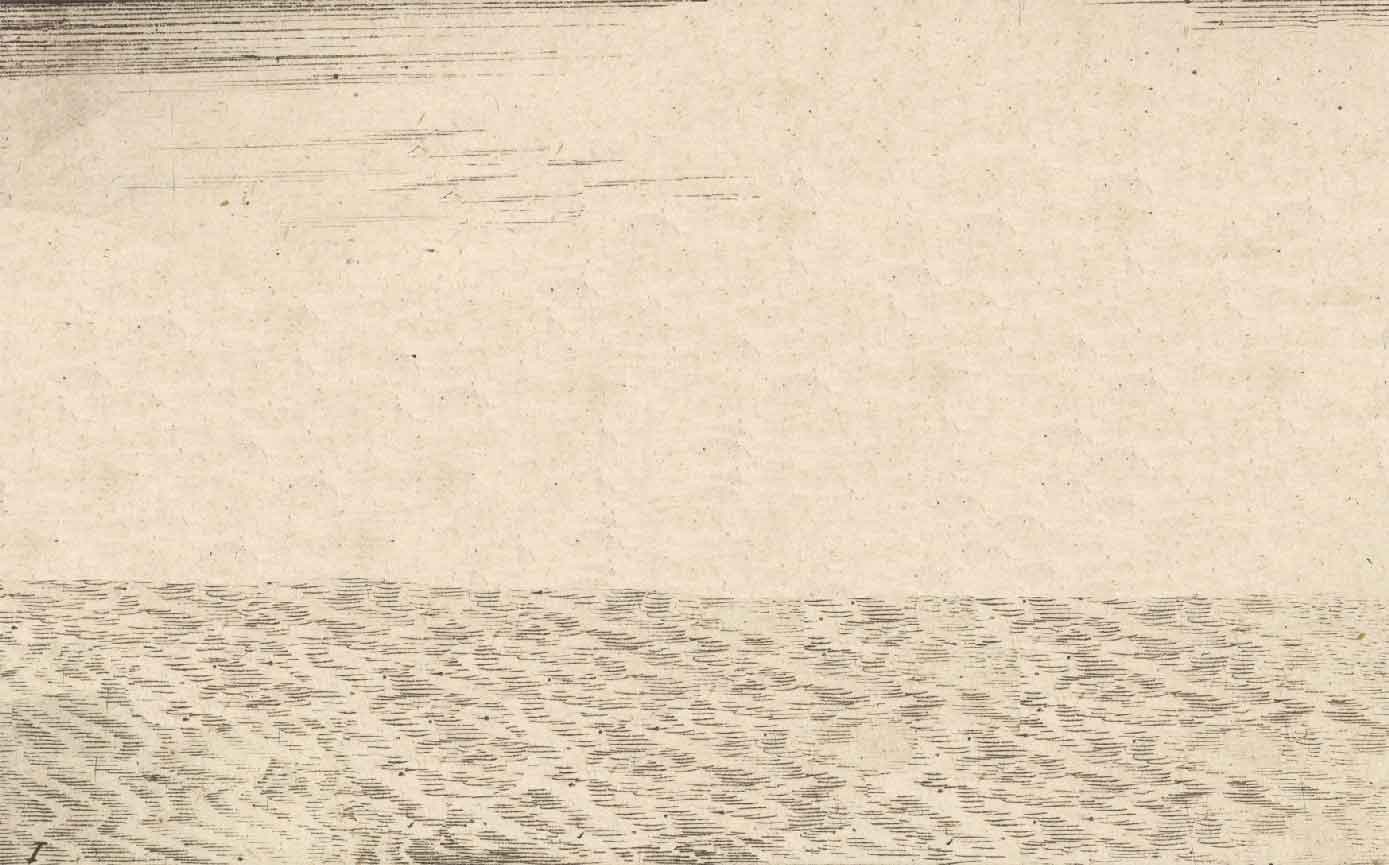
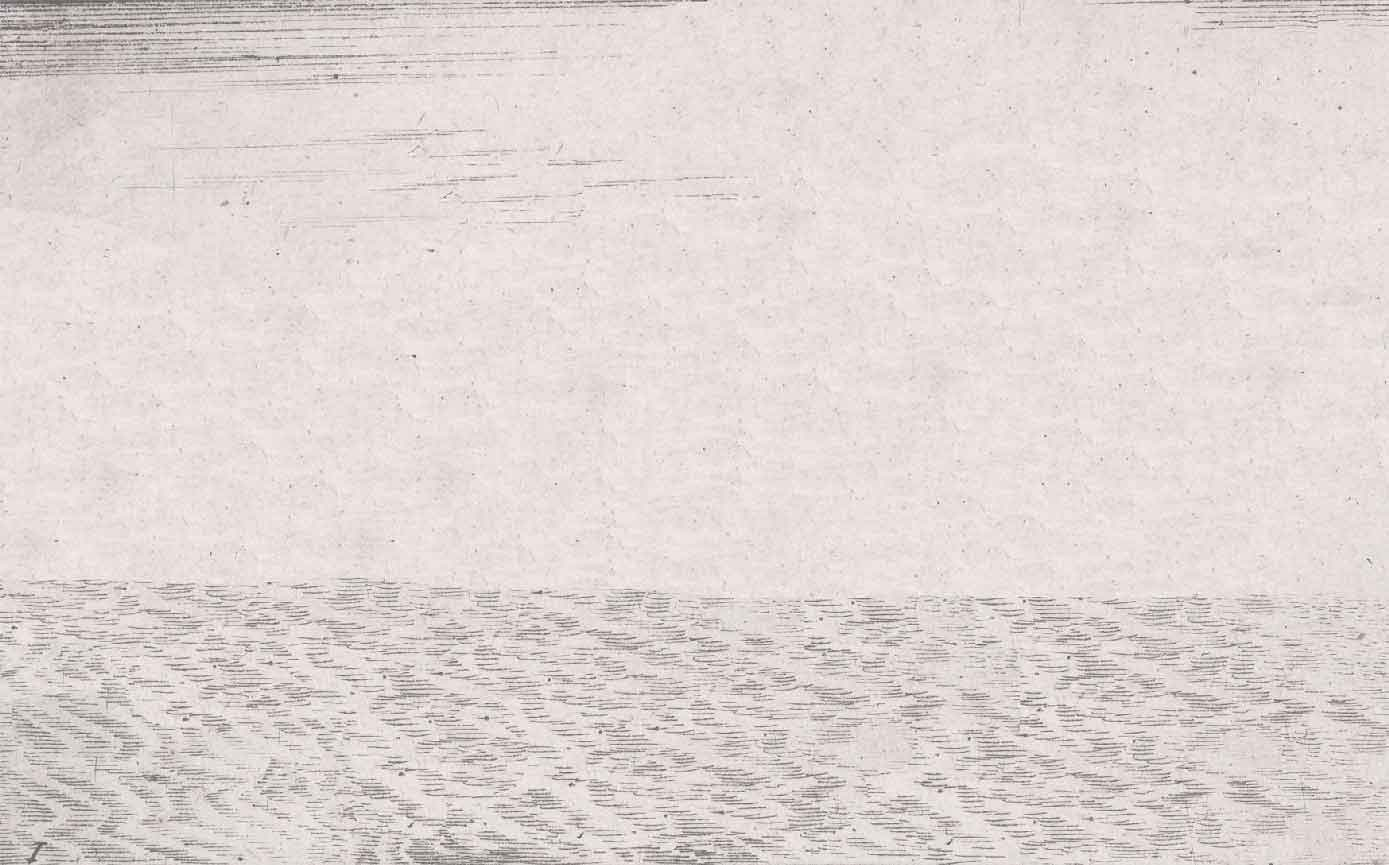
week 5 part 6
new big stop scroll effect

diff --git a/voyage.html b/voyage.html
@@ -4,7 +4,7 @@
 	<meta charset="UTF-8">
 	<meta name="viewport" content="initial-scale=1.0, width=device-width">
 
-	<title>Voyage Page Alpha v3</title>
+	<title>Voyage Page Alpha v4</title>
 
 	<link rel="stylesheet" href="css/main-styles.css">
 	<link rel="stylesheet" href="css/anims.css">
@@ -28,7 +28,8 @@
 
 <!-- PARALLAX BGs -->
 <div id="bannerBG" class="imgBG"></div>
-<div id="sierraLeonePar" class="imgBG"></div>
+<div id="sierraLeoneParBG" class="imgBG"></div>
+<div id="sierraLeoneParFG" class="imgBG"></div>
 <div id="rioDeLaPlataPar" class="imgBG"></div>
 <div id="salvadorPar" class="imgBG"></div>
 
@@ -236,11 +237,6 @@ The Red Dragon expedition was backed by the Earle of Cumberland with the blessin
 			</div>
 			</div>
 
-
-			<div id="sierraleoneImgs">
-				<img id="sierraleone-1" src="imgs/sierraleone-1.jpg" alt="sierraleoneImg">
-				<img id="sierraleone-2" src="imgs/sierraleone-2.jpg" alt="sierraleoneImg">
-			</div>
 
 			<div id="sierraLeoneTrans"></div>
 			<div class="spacer100"></div>

diff --git a/js/voyageScrolls.js b/js/voyageScrolls.js
@@ -181,6 +181,20 @@ new ScrollMagic.Scene({triggerElement: "#sierraLeone", duration: sierraLeoneH})
                 .setClassToggle("#rain", "rainier") 
                 .addTo(controller);
 
+new ScrollMagic.Scene({triggerElement: "#sierraLeoneText", duration: 700})
+                .setClassToggle("#sierraLeoneParBG", "bigParaShowBG") 
+                .addTo(controller);
+
+new ScrollMagic.Scene({triggerElement: "#sierraLeoneText", duration: 400})
+                .setClassToggle("#sierraLeoneParFG", "bigParaShowFG") 
+                .addTo(controller);
+
+
+var tween = TweenMax.to("#sierraLeoneParFG", 0.5, {left:0});
+var scene = new ScrollMagic.Scene({triggerElement: "#sierraLeoneText", duration: 700})
+                .setTween(tween)
+                .addTo(controller);
+
 
 
 new ScrollMagic.Scene({triggerElement: "#sierraLeone", duration:sierraLeoneH})

diff --git a/css/main-styles.css b/css/main-styles.css
@@ -566,9 +566,12 @@ img {
 	height: 100%;
 	z-index: -5;
 	background-size: cover;	
+	background-repeat: no-repeat;
 	transition: opacity 1s;
 	transition: filter 1s;
+	pointer-events: none;
 	opacity: 0;
+	transition: opacity 1s;
 }
 
 #paperBG {
@@ -581,6 +584,29 @@ img {
 	opacity: .2;
 	width: 150%;
 	left: -20%;
+}
+
+#sierraLeoneParBG {
+	background: url('../imgs/barcha-del-hercole-bg.jpg');
+	width: 150%;
+	z-index: -6;
+	filter: invert(1);
+}
+
+#sierraLeoneParFG {
+	background: url('../imgs/barcha-del-hercole-fg.png');
+	background-repeat: no-repeat;
+	width: 150%;
+	left: -30%;
+	z-index: -1;
+	filter: invert(1);
+}
+
+.bigParaShowBG {
+	opacity: 1 !important;
+}
+.bigParaShowFG {
+	opacity: .5 !important;
 }
 
 #rain {
@@ -895,6 +921,7 @@ img {
 	top: 6rem;
 	left: .5rem;
 }
+
 .bigTitle {
 	font-size: 6rem;
 	font-weight: normal;
